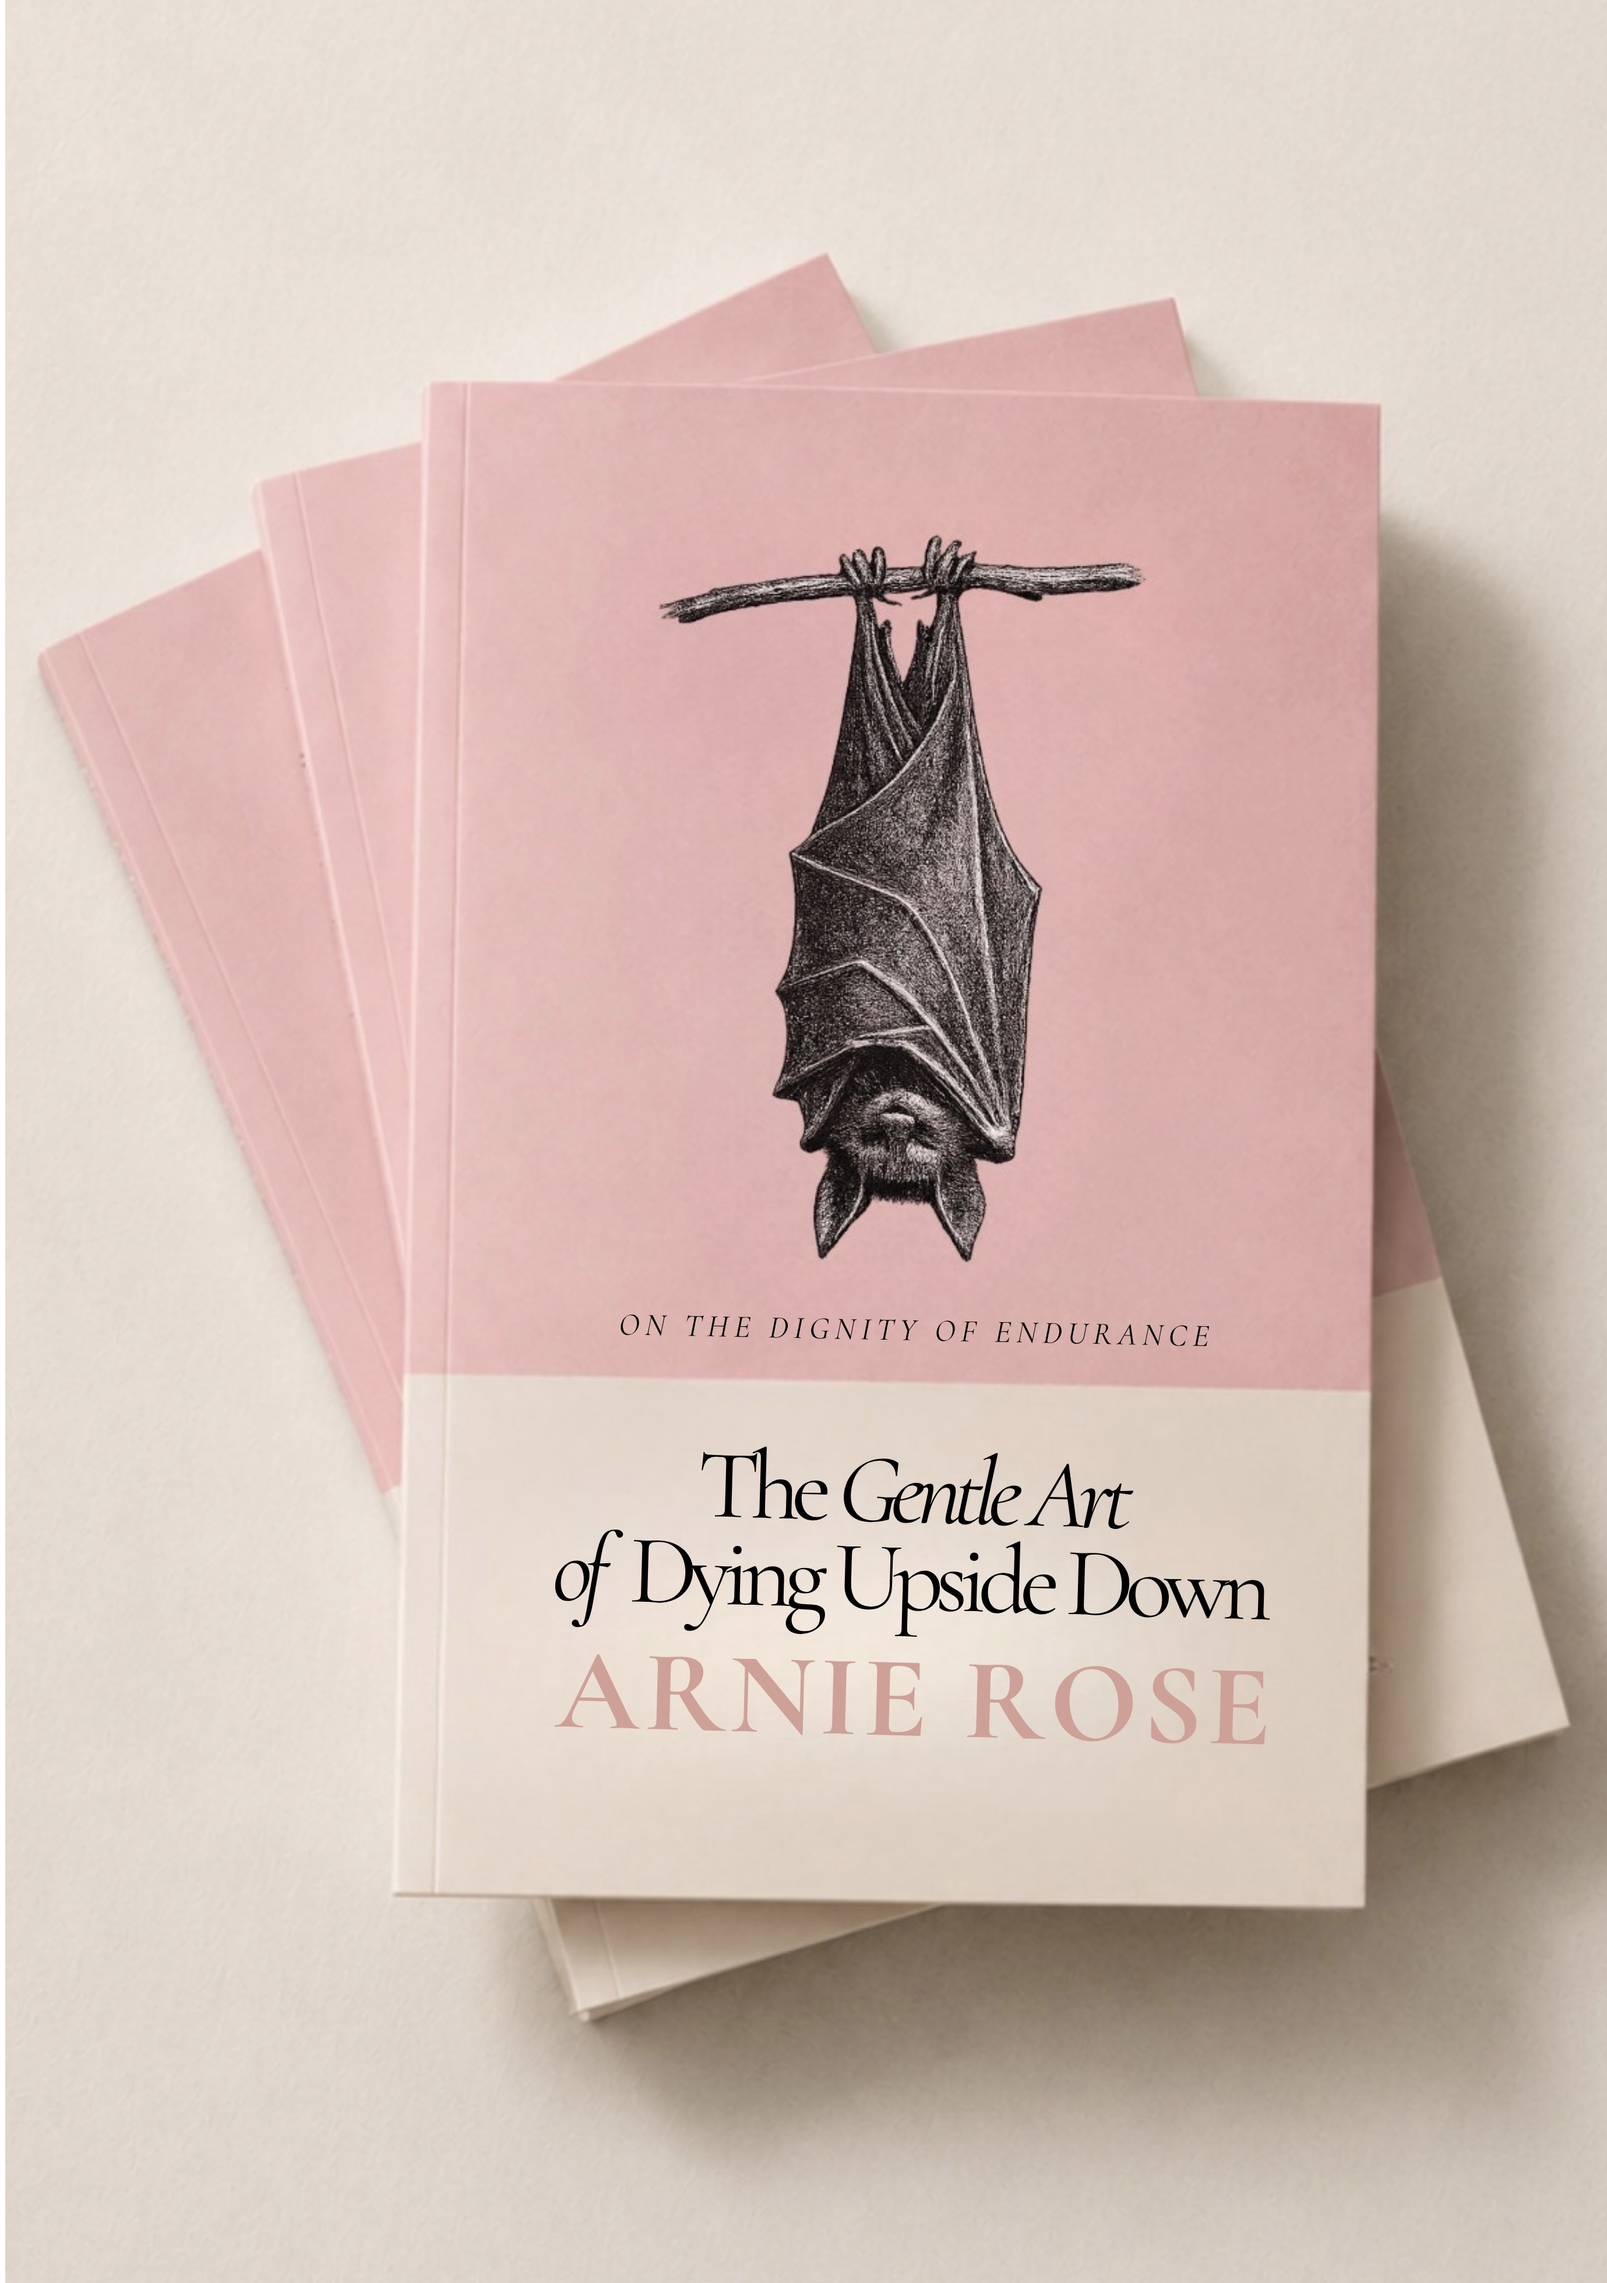
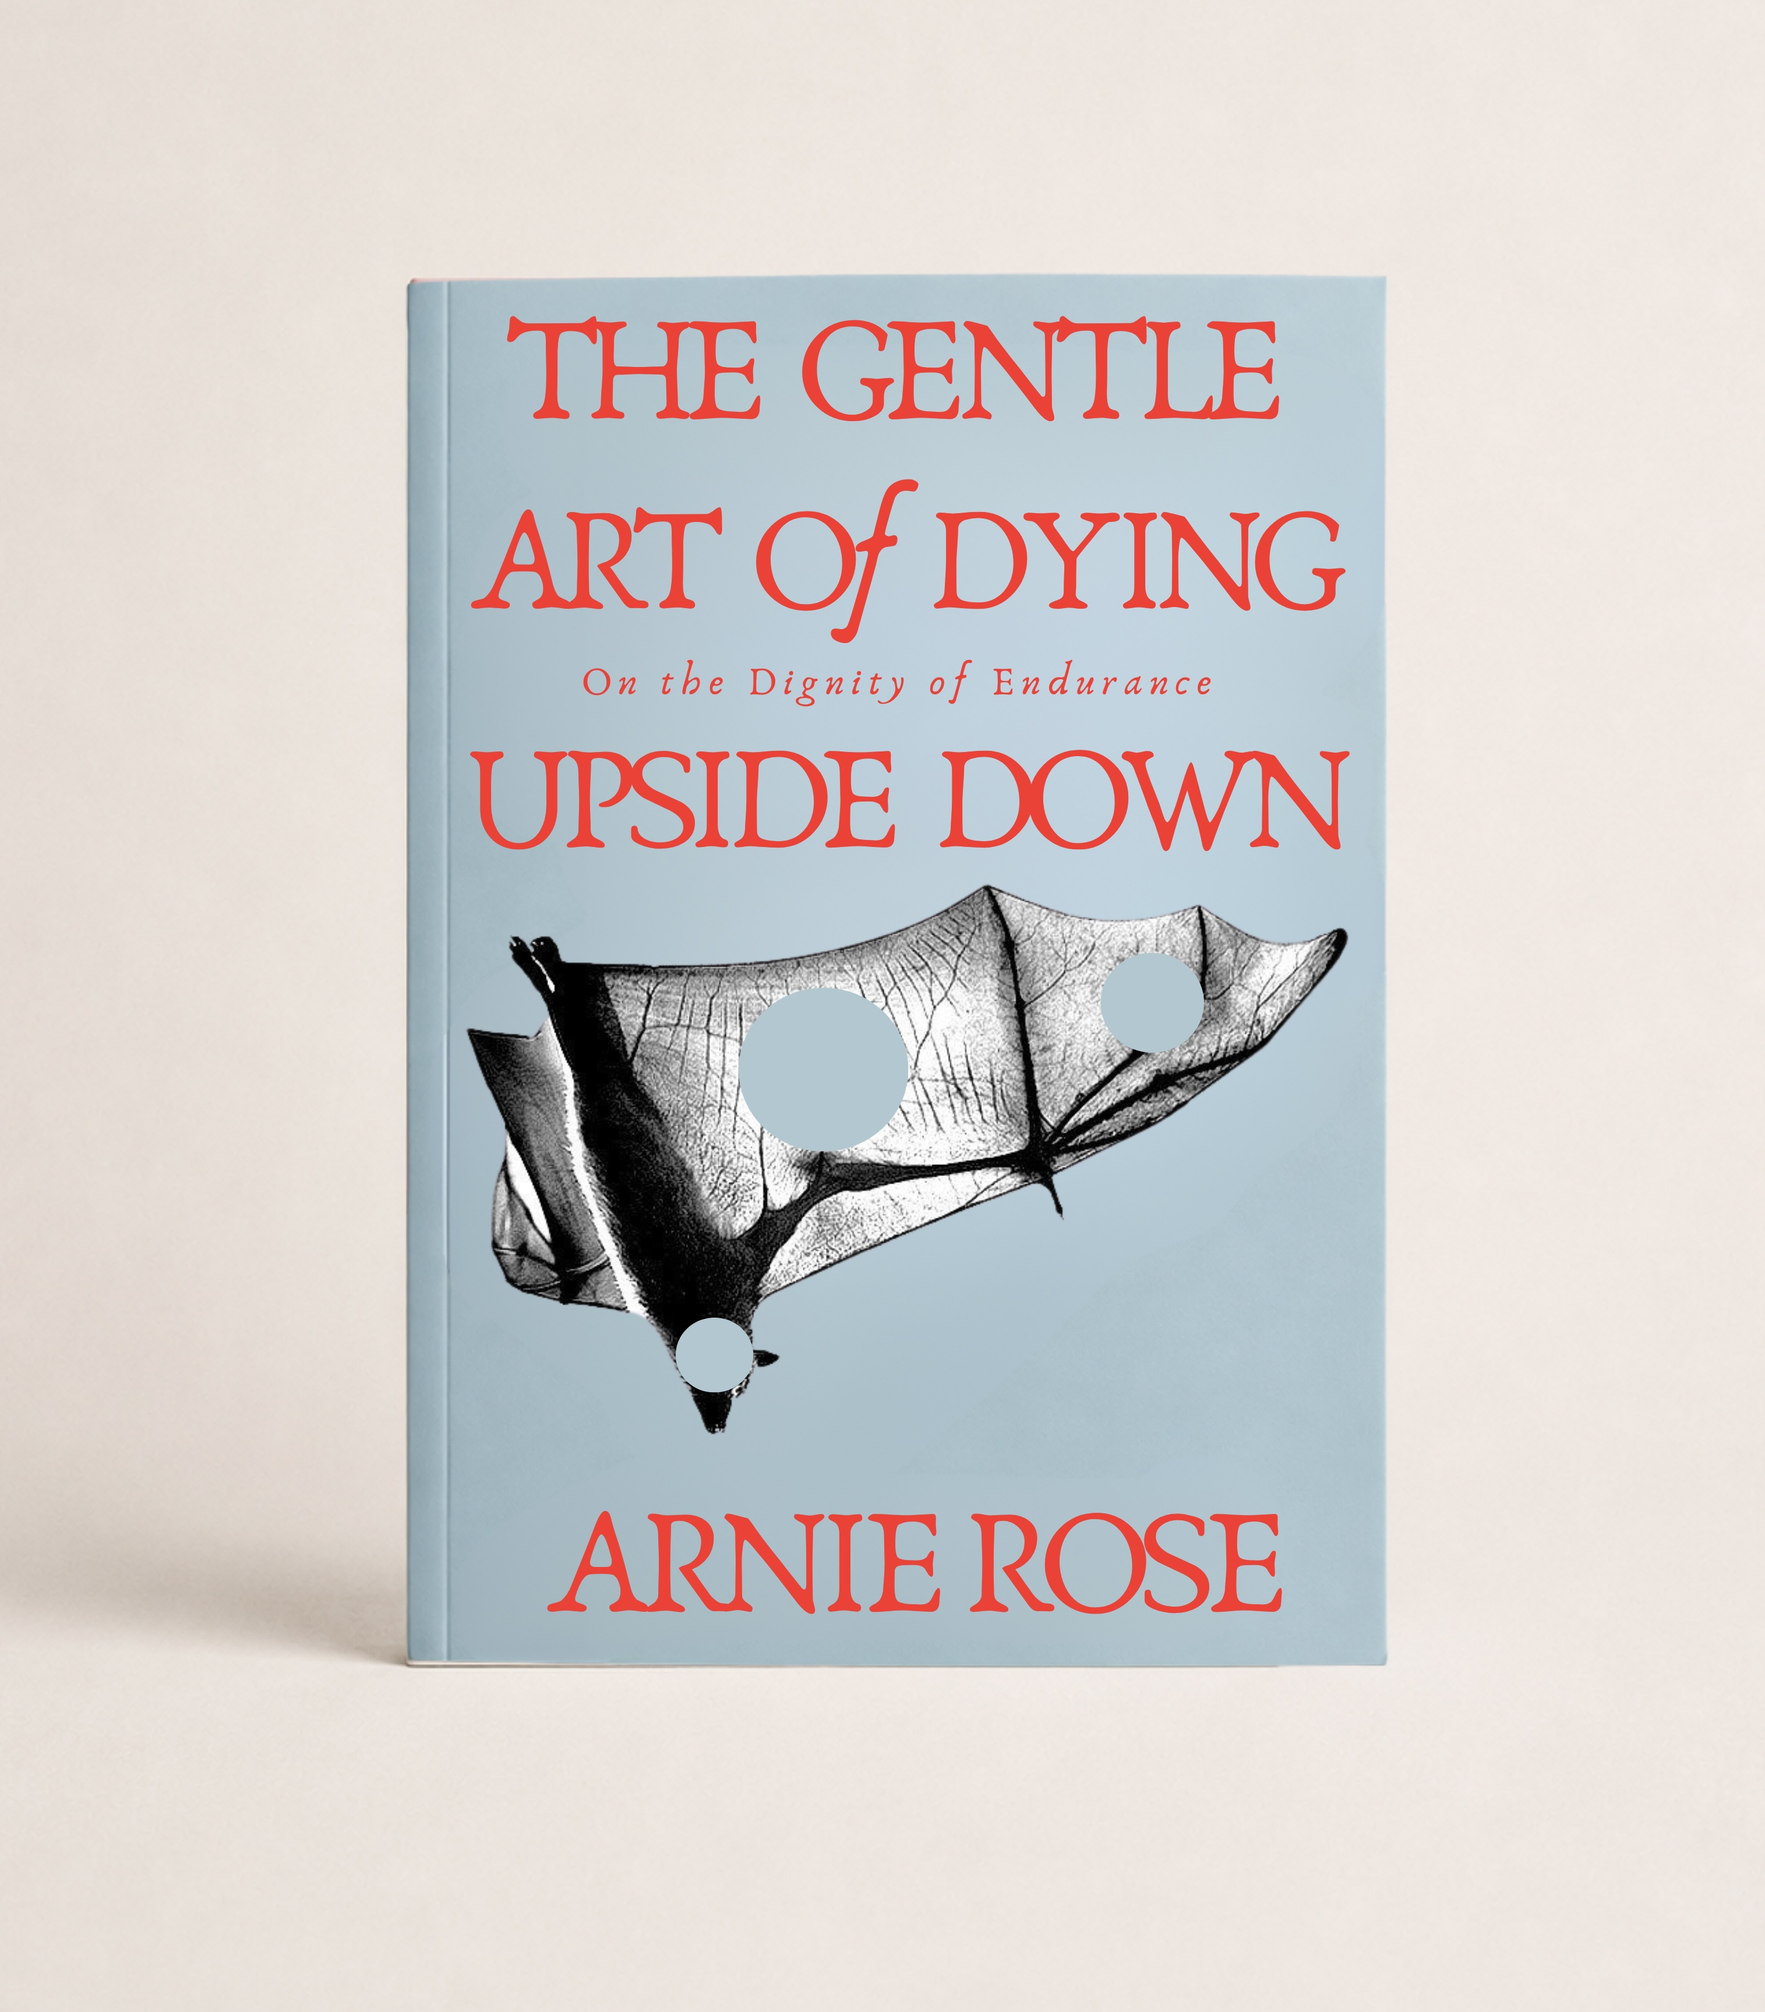
Add files via upload

diff --git a/index.html b/index.html
@@ -85,7 +85,7 @@ nav{position:fixed;top:0;left:0;right:0;z-index:100;padding:16px 60px;display:fl
 .hero-sub{font-family:var(--sans);font-size:12px;letter-spacing:0.06em;text-transform:uppercase;color:var(--ink-soft);margin-bottom:24px}
 .hero-desc{font-family:var(--body);font-size:16px;color:var(--ink-soft);line-height:1.8;max-width:420px;margin-bottom:28px}
 .hero-cover{width:360px;flex-shrink:0}
-.hero-cover img{box-shadow:0 4px 20px rgba(26,18,8,0.08)}
+.hero-cover img{box-shadow:0 12px 32px rgba(26,18,8,0.28)}
 .btn-fill{display:inline-block;font-family:var(--sans);font-size:11px;font-weight:500;letter-spacing:0.08em;text-transform:uppercase;text-decoration:none;padding:13px 26px;border:none;cursor:pointer;background:var(--terra);color:var(--parchment)}
 .btn-fill:hover{background:var(--terra-dark)}
 .btn-outline{display:inline-block;font-family:var(--sans);font-size:11px;font-weight:500;letter-spacing:0.08em;text-transform:uppercase;text-decoration:none;padding:12px 24px;border:1px solid var(--ink);color:var(--ink)}
@@ -93,6 +93,7 @@ nav{position:fixed;top:0;left:0;right:0;z-index:100;padding:16px 60px;display:fl
 .release-pill{display:inline-block;font-family:var(--sans);font-size:11px;font-weight:600;letter-spacing:0.08em;text-transform:uppercase;text-decoration:none;color:var(--terra);border:1px solid var(--terra);padding:12px 20px}
 .release-pill:hover{background:var(--terra);color:var(--parchment)}
 .hero-actions{display:flex;gap:14px;align-items:center;flex-wrap:wrap}
+.cover-note{font-family:var(--sans);font-size:12px;font-style:italic;color:var(--mid);margin-bottom:16px}
 
 /* SECTION COMMON */
 .s-inner{max-width:1080px;margin:0 auto;padding:0 60px}
@@ -214,7 +215,8 @@ footer{background:var(--parchment);padding:70px 60px 32px;border-top:1px solid v
       <span class="hero-badge">New Release</span>
       <h1 class="hero-title">The Gentle Art of Dying Upside Down</h1>
       <p class="hero-sub">On the Dignity of Endurance</p>
-      <p class="hero-desc">Some bats die still hanging.<br><br>For readers drawn to nature writing, narrative nonfiction, and contemplative books about the human experience, <em style="color:var(--ink)">The Gentle Art of Dying Upside Down</em> moves between natural history and human lives while staying close to the dignity of endurance. It leaves two questions: What does it mean to live inside the grip? What remains when endurance becomes a way of life?</p>
+      <p class="hero-desc">We are culturally taught that to survive, we must hold on tight. But what if holding on is just exhaustion in disguise? This book explores the concept of the &ldquo;passive grip&rdquo;&mdash;how bats hang effortlessly in the dark, only using energy when it&rsquo;s time to fly.<br><br>Through nature writing and deeply human stories&mdash;a daughter peeling an apple for her mother fading into dementia, a mother packing gifts for a daughter she will not live to see grow up&mdash;the&nbsp;book offers a comforting perspective on mortality: that endings are not failures, but arrivals. It&rsquo;s a companion for anyone navigating grief, caregiving, or a major life transition.</p>
+      <p class="cover-note">Now available with an updated cover</p>
       <div class="hero-actions">
         <a href="the-gentle-art-of-dying-upside-down.html" class="btn-fill">Learn More</a>
         <a href="https://a.co/d/0dqZ2FYL" target="_blank" rel="noopener" class="release-pill">Available Now</a>

diff --git a/the-gentle-art-of-dying-upside-down.html b/the-gentle-art-of-dying-upside-down.html
@@ -72,6 +72,7 @@ nav{position:fixed;top:0;left:0;right:0;z-index:100;padding:16px 60px;display:fl
 .hero-text{flex:1;min-width:320px}
 .hero-badge{display:inline-block;background:var(--terra);color:var(--parchment);font-family:var(--sans);font-size:20px;font-weight:700;letter-spacing:0.06em;text-transform:uppercase;padding:12px 26px;margin-bottom:22px}
 .hero-eyebrow{font-family:var(--sans);font-size:15px;font-weight:600;letter-spacing:0.08em;text-transform:uppercase;color:var(--terra);margin-top:18px;margin-bottom:0}
+.cover-note{font-weight:400;text-transform:none;letter-spacing:normal;font-style:italic;color:var(--mid);font-size:13px}
 .hero-eyebrow a{color:var(--terra);text-decoration:none;border-bottom:1px solid var(--terra);padding-bottom:2px}
 .hero-eyebrow a:hover{opacity:0.75}
 .hero-title{font-family:var(--playfair);font-size:clamp(38px,5vw,60px);font-weight:400;line-height:1.08;color:var(--ink);margin-bottom:14px}
@@ -216,7 +217,7 @@ footer{padding:70px 60px 36px;border-top:1px solid var(--faint)}
       <div class="hero-actions">
         <a href="the-letters.html" class="btn-fill">Join The Letters</a>
       </div>
-      <p class="hero-eyebrow"><a href="https://a.co/d/0dqZ2FYL" target="_blank" rel="noopener">Available Now</a></p>
+      <p class="hero-eyebrow"><a href="https://a.co/d/0dqZ2FYL" target="_blank" rel="noopener">Available Now</a> <span class="cover-note">&mdash; the updated book cover</span></p>
     </div>
   </div>
 </section>
@@ -230,9 +231,8 @@ footer{padding:70px 60px 36px;border-top:1px solid var(--faint)}
     <div class="about-copy">
       <p class="section-label about-label">About the Book</p>
       <p>Some bats die still hanging.<br>Their claws stay locked.<br>Their wings remain folded.<br>Their bodies hold even after the heart stops.</p>
-      <p>Beyond the cave, the human stories include two daughters on different journeys, one returning to a mother with dementia who no longer recognizes her, the other an adopted daughter confronting the distance between origin and family; and a blind pianist for whom darkness is guided by keys and melodies.</p>
-      <p>For readers drawn to nature writing, narrative nonfiction, and contemplative books about the human experience, <em>The Gentle Art of Dying Upside Down</em> moves between natural history and human lives while staying close to the dignity of endurance. It leaves two questions: What does it mean to live inside the grip? What remains when endurance becomes a way of life?</p>
-      <p>Some bats die still hanging. Until then, the grip is simply how they live.</p>
+      <p>How do you answer &ldquo;Who are you?&rdquo; when the person asking is the one who gave you life? When a mother forgets her daughter&rsquo;s name, love does not argue. It peels an apple in one long, unbroken ribbon, and waits for the silence to settle.</p>
+      <p><em>The Gentle Art of Dying Upside Down</em> is a meditation on the dignity of endurance and the grace of stillness, weaving the quiet biology of cave-dwelling bats with a collection of deeply human stories. A daughter peels an apple for a mother fading into dementia. A blind pianist moves through the world by sound, memory, and the keys beneath his fingers. A mother packs gifts for a daughter she will not live to see grow up.</p>
     </div>
   </div>
 </section>
